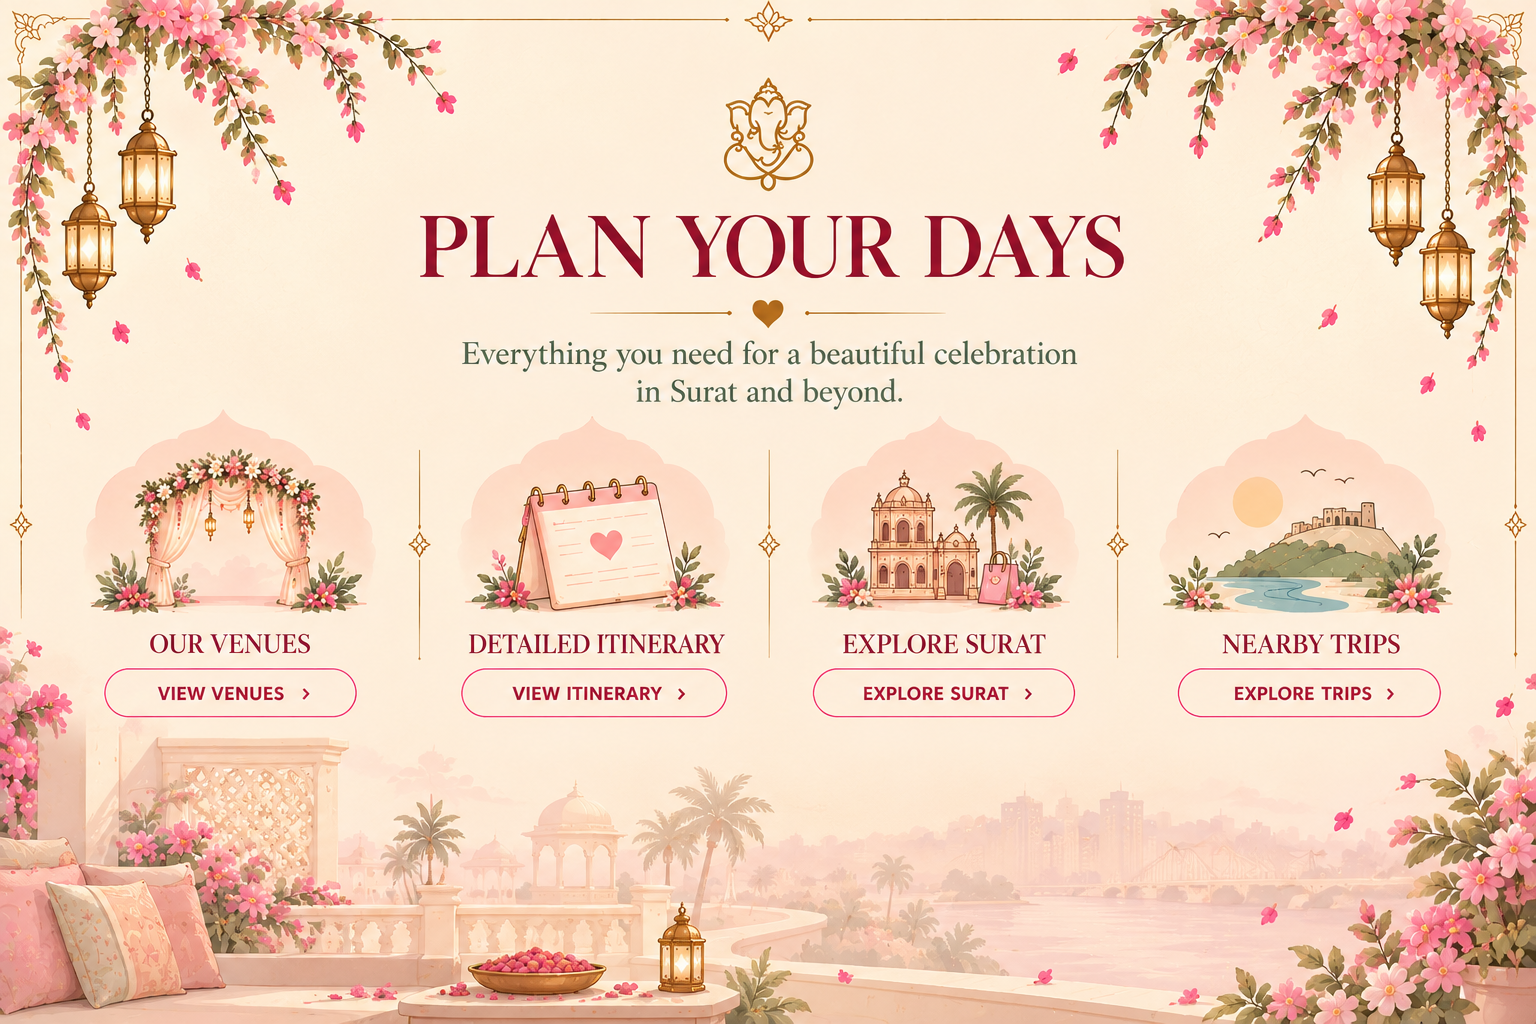
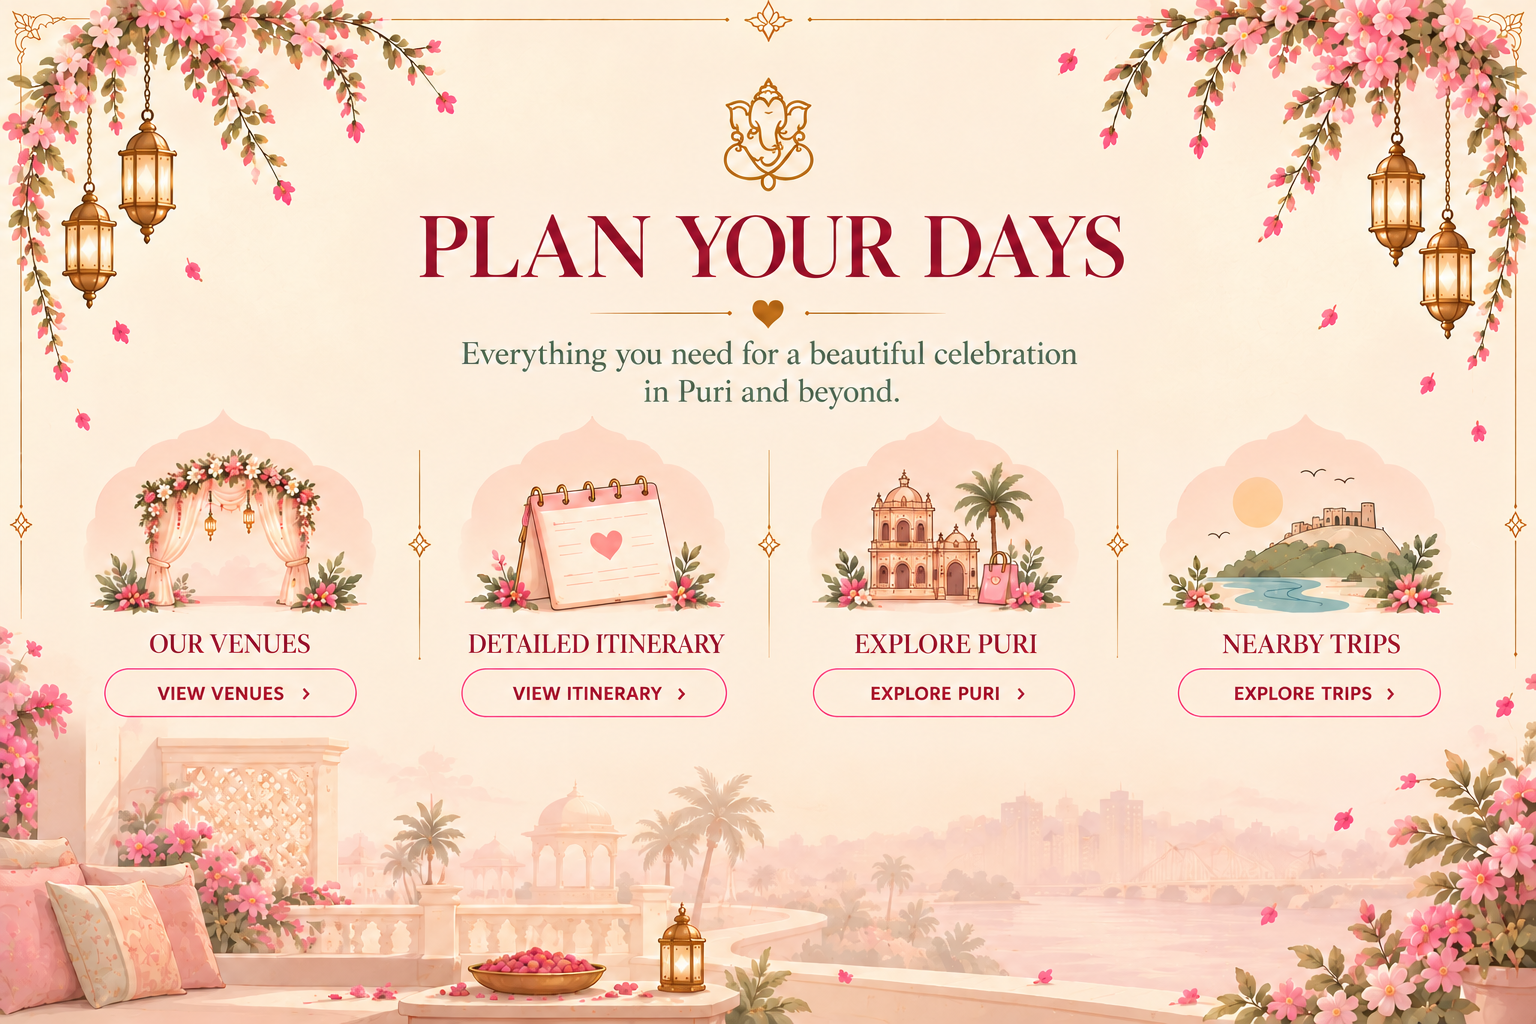
fix plan days

diff --git a/src/App.tsx b/src/App.tsx
@@ -771,7 +771,7 @@ export default function App() {
         <div className="max-w-md mx-auto space-y-2">
           <Heart className="w-4 h-4 text-[#d4af37] fill-[#d4af37] mx-auto" />
           <h3 className="text-2xl text-[#8b3a3a] font-bold" style={{ fontFamily: "'Playfair Display', serif" }}>Amisha &amp; Sumeet</h3>
-          <p className="text-xs uppercase tracking-[0.12em] text-[#8b3a3a] font-medium">1st - 3rd December 2026 · Surat</p>
+          <p className="text-xs uppercase tracking-[0.12em] text-[#8b3a3a] font-medium">29th - 30th November 2026 · Puri</p>
           <p className="text-xs text-[#8b3a3a] opacity-70">Made with love for our family &amp; friends</p>
           <div className="flex items-center justify-center gap-5 pt-2 text-[#8F2438]" aria-label="Social media and contact icons">
             <Instagram className="w-4 h-4" aria-label="Instagram" />
